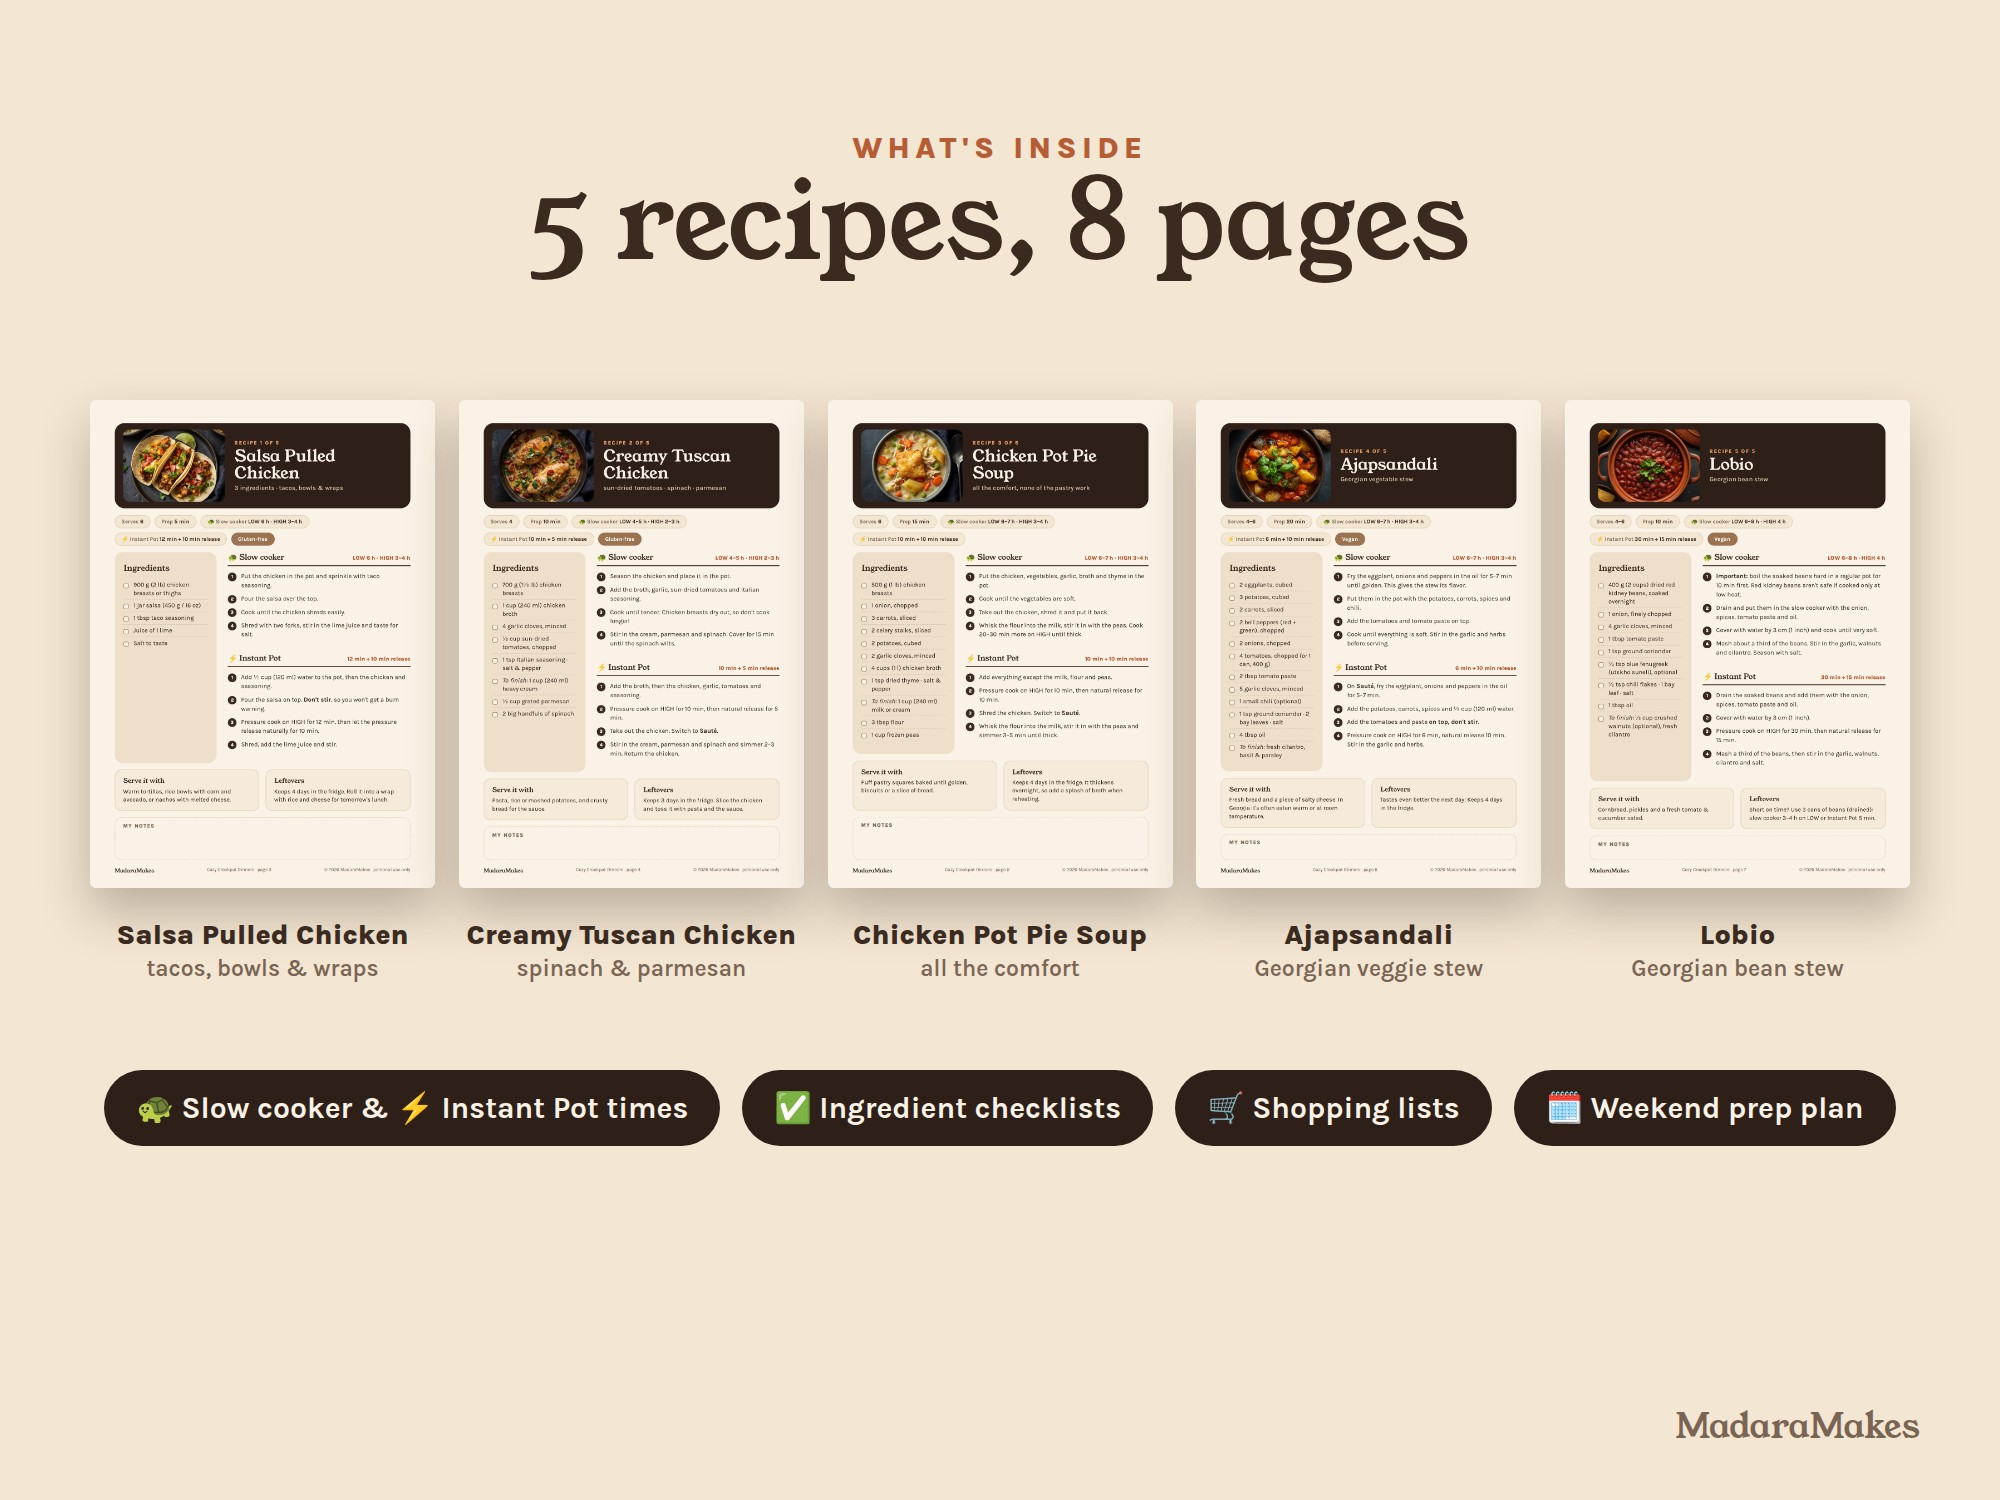
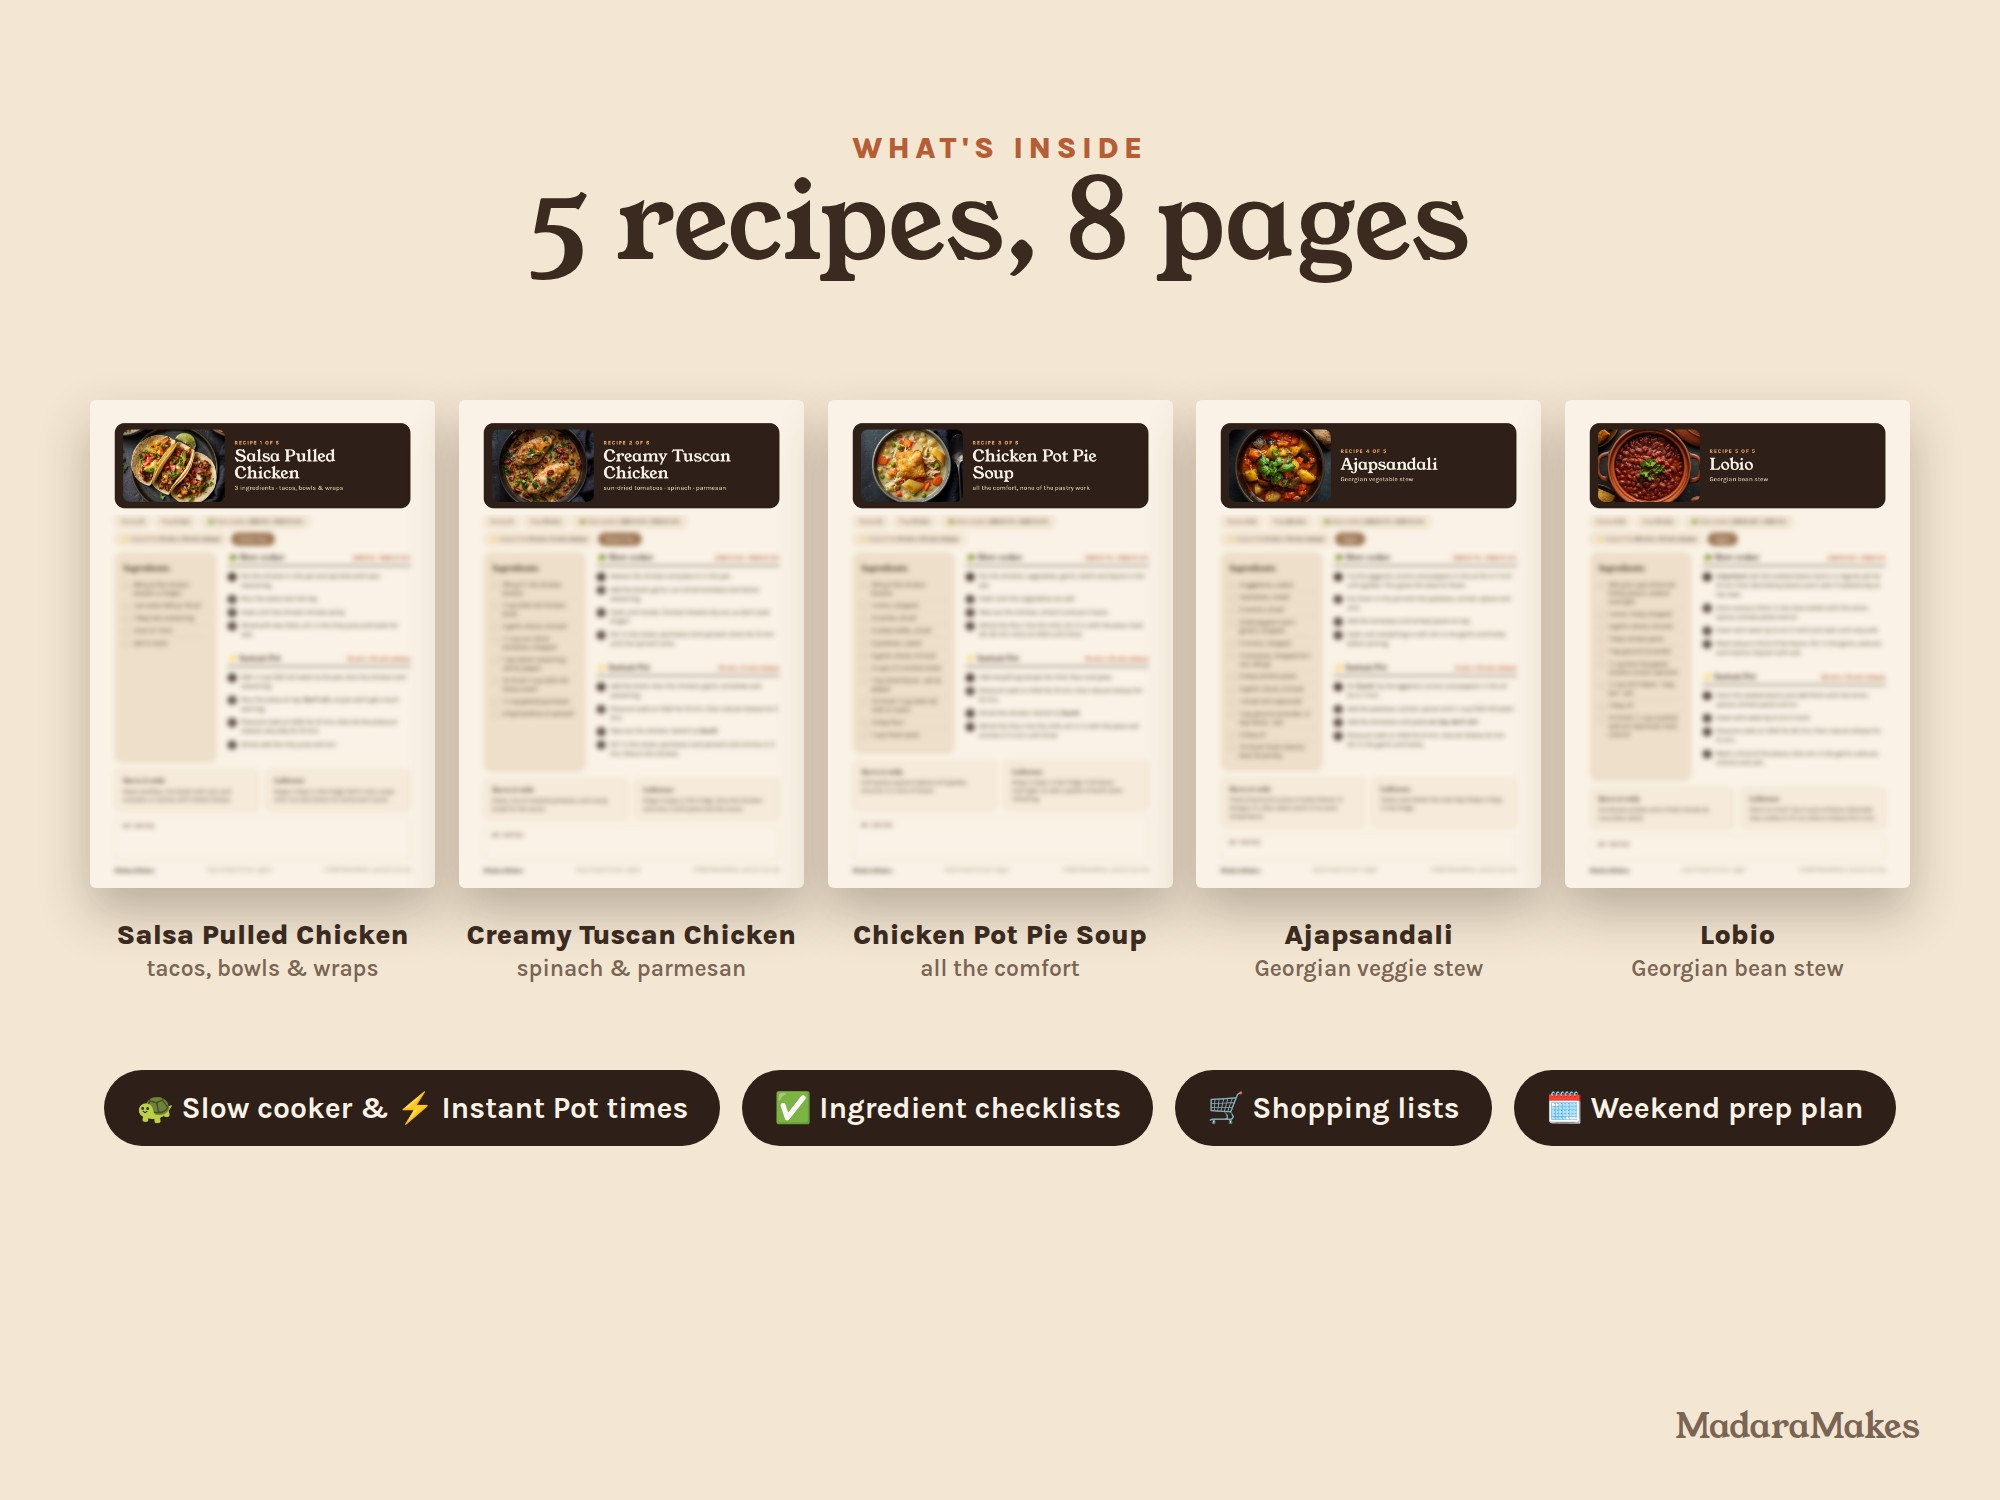
Crockpot: blur recipe text in What's inside listing image
Claude-Session: https://claude.ai/code/session_01KPPwg3qjQ8qHbGrYntyvxT

diff --git a/products/crockpot/listing/l2-inside.html b/products/crockpot/listing/l2-inside.html
@@ -11,11 +11,11 @@ figcaption small{display:block;font-weight:600;font-size:23px;color:#7A6453;marg
 </style></head><body>
 <div class="top"><div class="k" style="color:#B65D35">What's inside</div><h1>5 recipes, 8 pages</h1></div>
 <div class="row">
-<figure><img src="pg-3.png"><figcaption>Salsa Pulled Chicken<small>tacos, bowls &amp; wraps</small></figcaption></figure>
-<figure><img src="pg-4.png"><figcaption>Creamy Tuscan Chicken<small>spinach &amp; parmesan</small></figcaption></figure>
-<figure><img src="pg-5.png"><figcaption>Chicken Pot Pie Soup<small>all the comfort</small></figcaption></figure>
-<figure><img src="pg-6.png"><figcaption>Ajapsandali<small>Georgian veggie stew</small></figcaption></figure>
-<figure><img src="pg-7.png"><figcaption>Lobio<small>Georgian bean stew</small></figcaption></figure>
+<figure><img src="pg-3-blur.png"><figcaption>Salsa Pulled Chicken<small>tacos, bowls &amp; wraps</small></figcaption></figure>
+<figure><img src="pg-4-blur.png"><figcaption>Creamy Tuscan Chicken<small>spinach &amp; parmesan</small></figcaption></figure>
+<figure><img src="pg-5-blur.png"><figcaption>Chicken Pot Pie Soup<small>all the comfort</small></figcaption></figure>
+<figure><img src="pg-6-blur.png"><figcaption>Ajapsandali<small>Georgian veggie stew</small></figcaption></figure>
+<figure><img src="pg-7-blur.png"><figcaption>Lobio<small>Georgian bean stew</small></figcaption></figure>
 </div>
 <div class="chips"><span>🐢 Slow cooker &amp; ⚡ Instant Pot times</span><span>✅ Ingredient checklists</span><span>🛒 Shopping lists</span><span>🗓 Weekend prep plan</span></div>
 <div class="brand" style="right:80px;bottom:50px;color:#7A6453">MadaraMakes</div>
